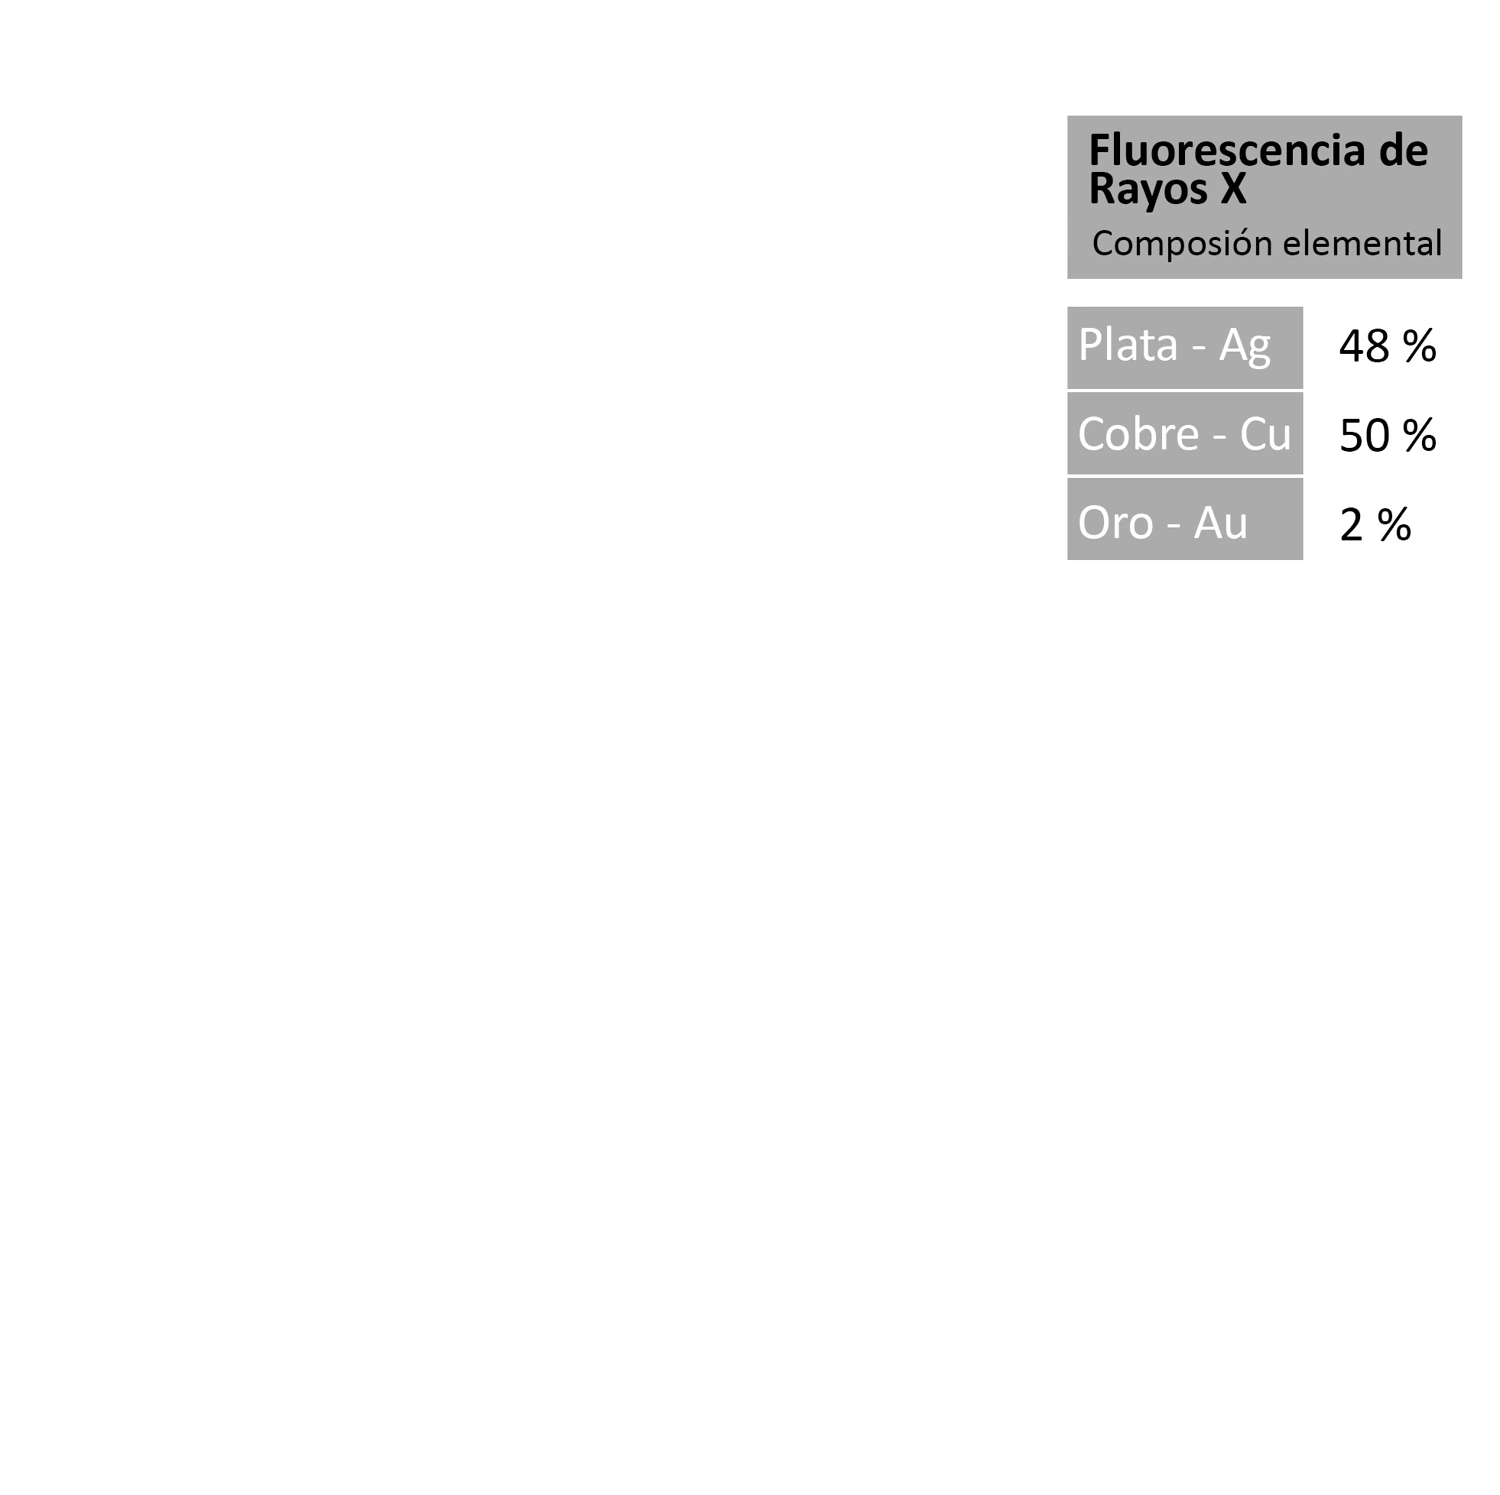
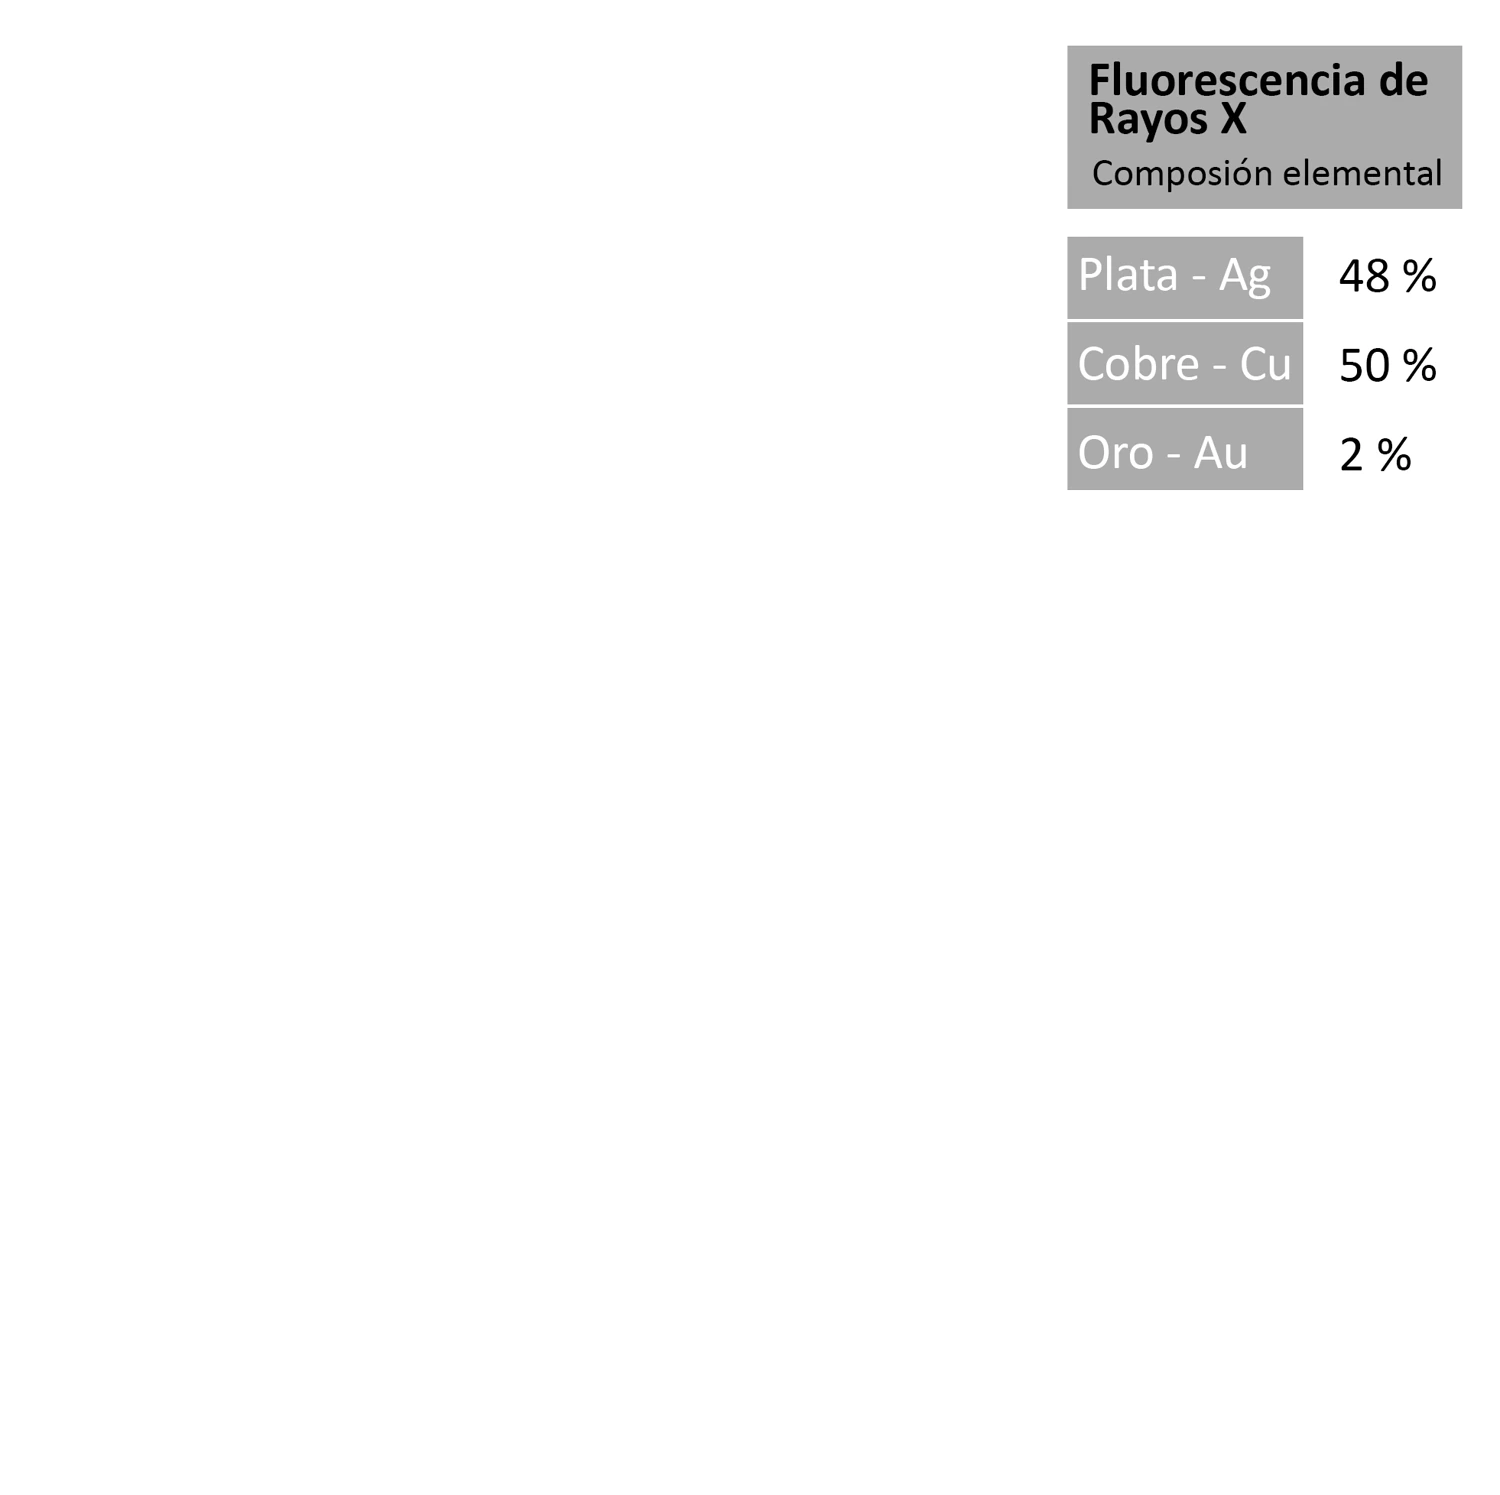
Escapulario: sube toda la microscopia (fotos, recuadros y aros) para cerrar el hueco vacio debajo del titulo
Las 3 filas (foto+recuadro) se suben 70px dentro de su mismo lienzo,
manteniendo el espaciado entre ellas; el titulo "MICROSCOPIA / 10x de
aumento" no se toca, como pidio el equipo. Los aros tocables (hotspots) se
suben la misma distancia proporcional (0.047 en y) para seguir calzando con
las fotos.

De paso se aprovecha para recortar los tres "-foto" un poco mas angostos por
la izquierda (x0 660 en vez de 630/640): con el recorte viejo alcanzaban a
agarrar un hilo suelto del boceto de rayos X (que llega hasta x=655), y al
subir el recuadro 2 ese hilito quedaba visible como una rayita suelta encima
del texto -- las fotos en si empiezan recien en x=657, así que angostar no
corta nada real.

Changed region(s): [[0.7053, 0.0308, 0.9813, 0.4]]

diff --git a/escapulario/config.js b/escapulario/config.js
@@ -36,19 +36,22 @@ window.MUSEO_CONFIG = {
   // recuadro3.
   microReveals: [
     "assets/reveal/microtitulo.webp?v=2",
-    "assets/reveal/detalle1-foto.webp",
-    "assets/reveal/detalle1-box.webp",
-    "assets/reveal/detalle2-foto.webp",
-    "assets/reveal/detalle2-box.webp",
-    "assets/reveal/detalle3-foto.webp",
-    "assets/reveal/detalle3-box.webp"
+    "assets/reveal/detalle1-foto.webp?v=2",
+    "assets/reveal/detalle1-box.webp?v=2",
+    "assets/reveal/detalle2-foto.webp?v=2",
+    "assets/reveal/detalle2-box.webp?v=2",
+    "assets/reveal/detalle3-foto.webp?v=2",
+    "assets/reveal/detalle3-box.webp?v=2"
   ],
   intervaloReveal: 0.8,
 
   // Globitos de microscopía tocables (coords normalizadas sobre el asset).
+  // y subido ~0.047 (70px de 1495) junto con las fotos/recuadros de arriba,
+  // para achicar el hueco vacío entre el título y la primera fila (pedido
+  // del equipo: "hay mucho espacio, mueve todo más arriba").
   hotspots: [
-    { x: 0.560, y: 0.290, color: "#8a4a36", img: "assets/micro-muestra1.webp", titulo: "Detalle 1", pigmento: "Fluorescencia de rayos X", formula: "Ag 48% - Cu 50% - Au 2%", nota: "Hilos de lana roja bordada con hilos metálicos de plata dorada" },
-    { x: 0.568, y: 0.571, color: "#8b7b58", img: "assets/micro-muestra2.webp", titulo: "Detalle 2", pigmento: "Fluorescencia de rayos X", formula: "Ag 52% - Cu 43% - Au 5%", nota: "Hilos metálicos entorchados de plata dorada" },
-    { x: 0.570, y: 0.849, color: "#9a8a5f", img: "assets/micro-muestra3.webp", titulo: "Detalle 3", pigmento: "Fluorescencia de rayos X", formula: "Ag 94% - Cu 1% - Au 5%", nota: "Hilos metálicos laminados de plata dorada" }
+    { x: 0.560, y: 0.243, color: "#8a4a36", img: "assets/micro-muestra1.webp", titulo: "Detalle 1", pigmento: "Fluorescencia de rayos X", formula: "Ag 48% - Cu 50% - Au 2%", nota: "Hilos de lana roja bordada con hilos metálicos de plata dorada" },
+    { x: 0.568, y: 0.524, color: "#8b7b58", img: "assets/micro-muestra2.webp", titulo: "Detalle 2", pigmento: "Fluorescencia de rayos X", formula: "Ag 52% - Cu 43% - Au 5%", nota: "Hilos metálicos entorchados de plata dorada" },
+    { x: 0.570, y: 0.802, color: "#9a8a5f", img: "assets/micro-muestra3.webp", titulo: "Detalle 3", pigmento: "Fluorescencia de rayos X", formula: "Ag 94% - Cu 1% - Au 5%", nota: "Hilos metálicos laminados de plata dorada" }
   ]
 };

diff --git a/escapulario/preview.html b/escapulario/preview.html
@@ -155,7 +155,7 @@
   <div id="zoom"><img id="zoom-img" alt="Microscopía ampliada" /></div>
   <div id="error"></div>
 
-  <script src="config.js?v=8"></script>
+  <script src="config.js?v=9"></script>
   <script type="module" src="../shared/ar-engine.js?v=13"></script>
   <script type="module" src="../shared/preview-editor.js?v=4"></script>
 </body>

diff --git a/escapulario/index.html b/escapulario/index.html
@@ -75,7 +75,7 @@
   <div id="zoom"><img id="zoom-img" alt="Microscopía ampliada" /></div>
   <div id="error"></div>
 
-  <script src="config.js?v=8"></script>
+  <script src="config.js?v=9"></script>
   <script type="module" src="../shared/ar-engine.js?v=13"></script>
 </body>
 </html>
